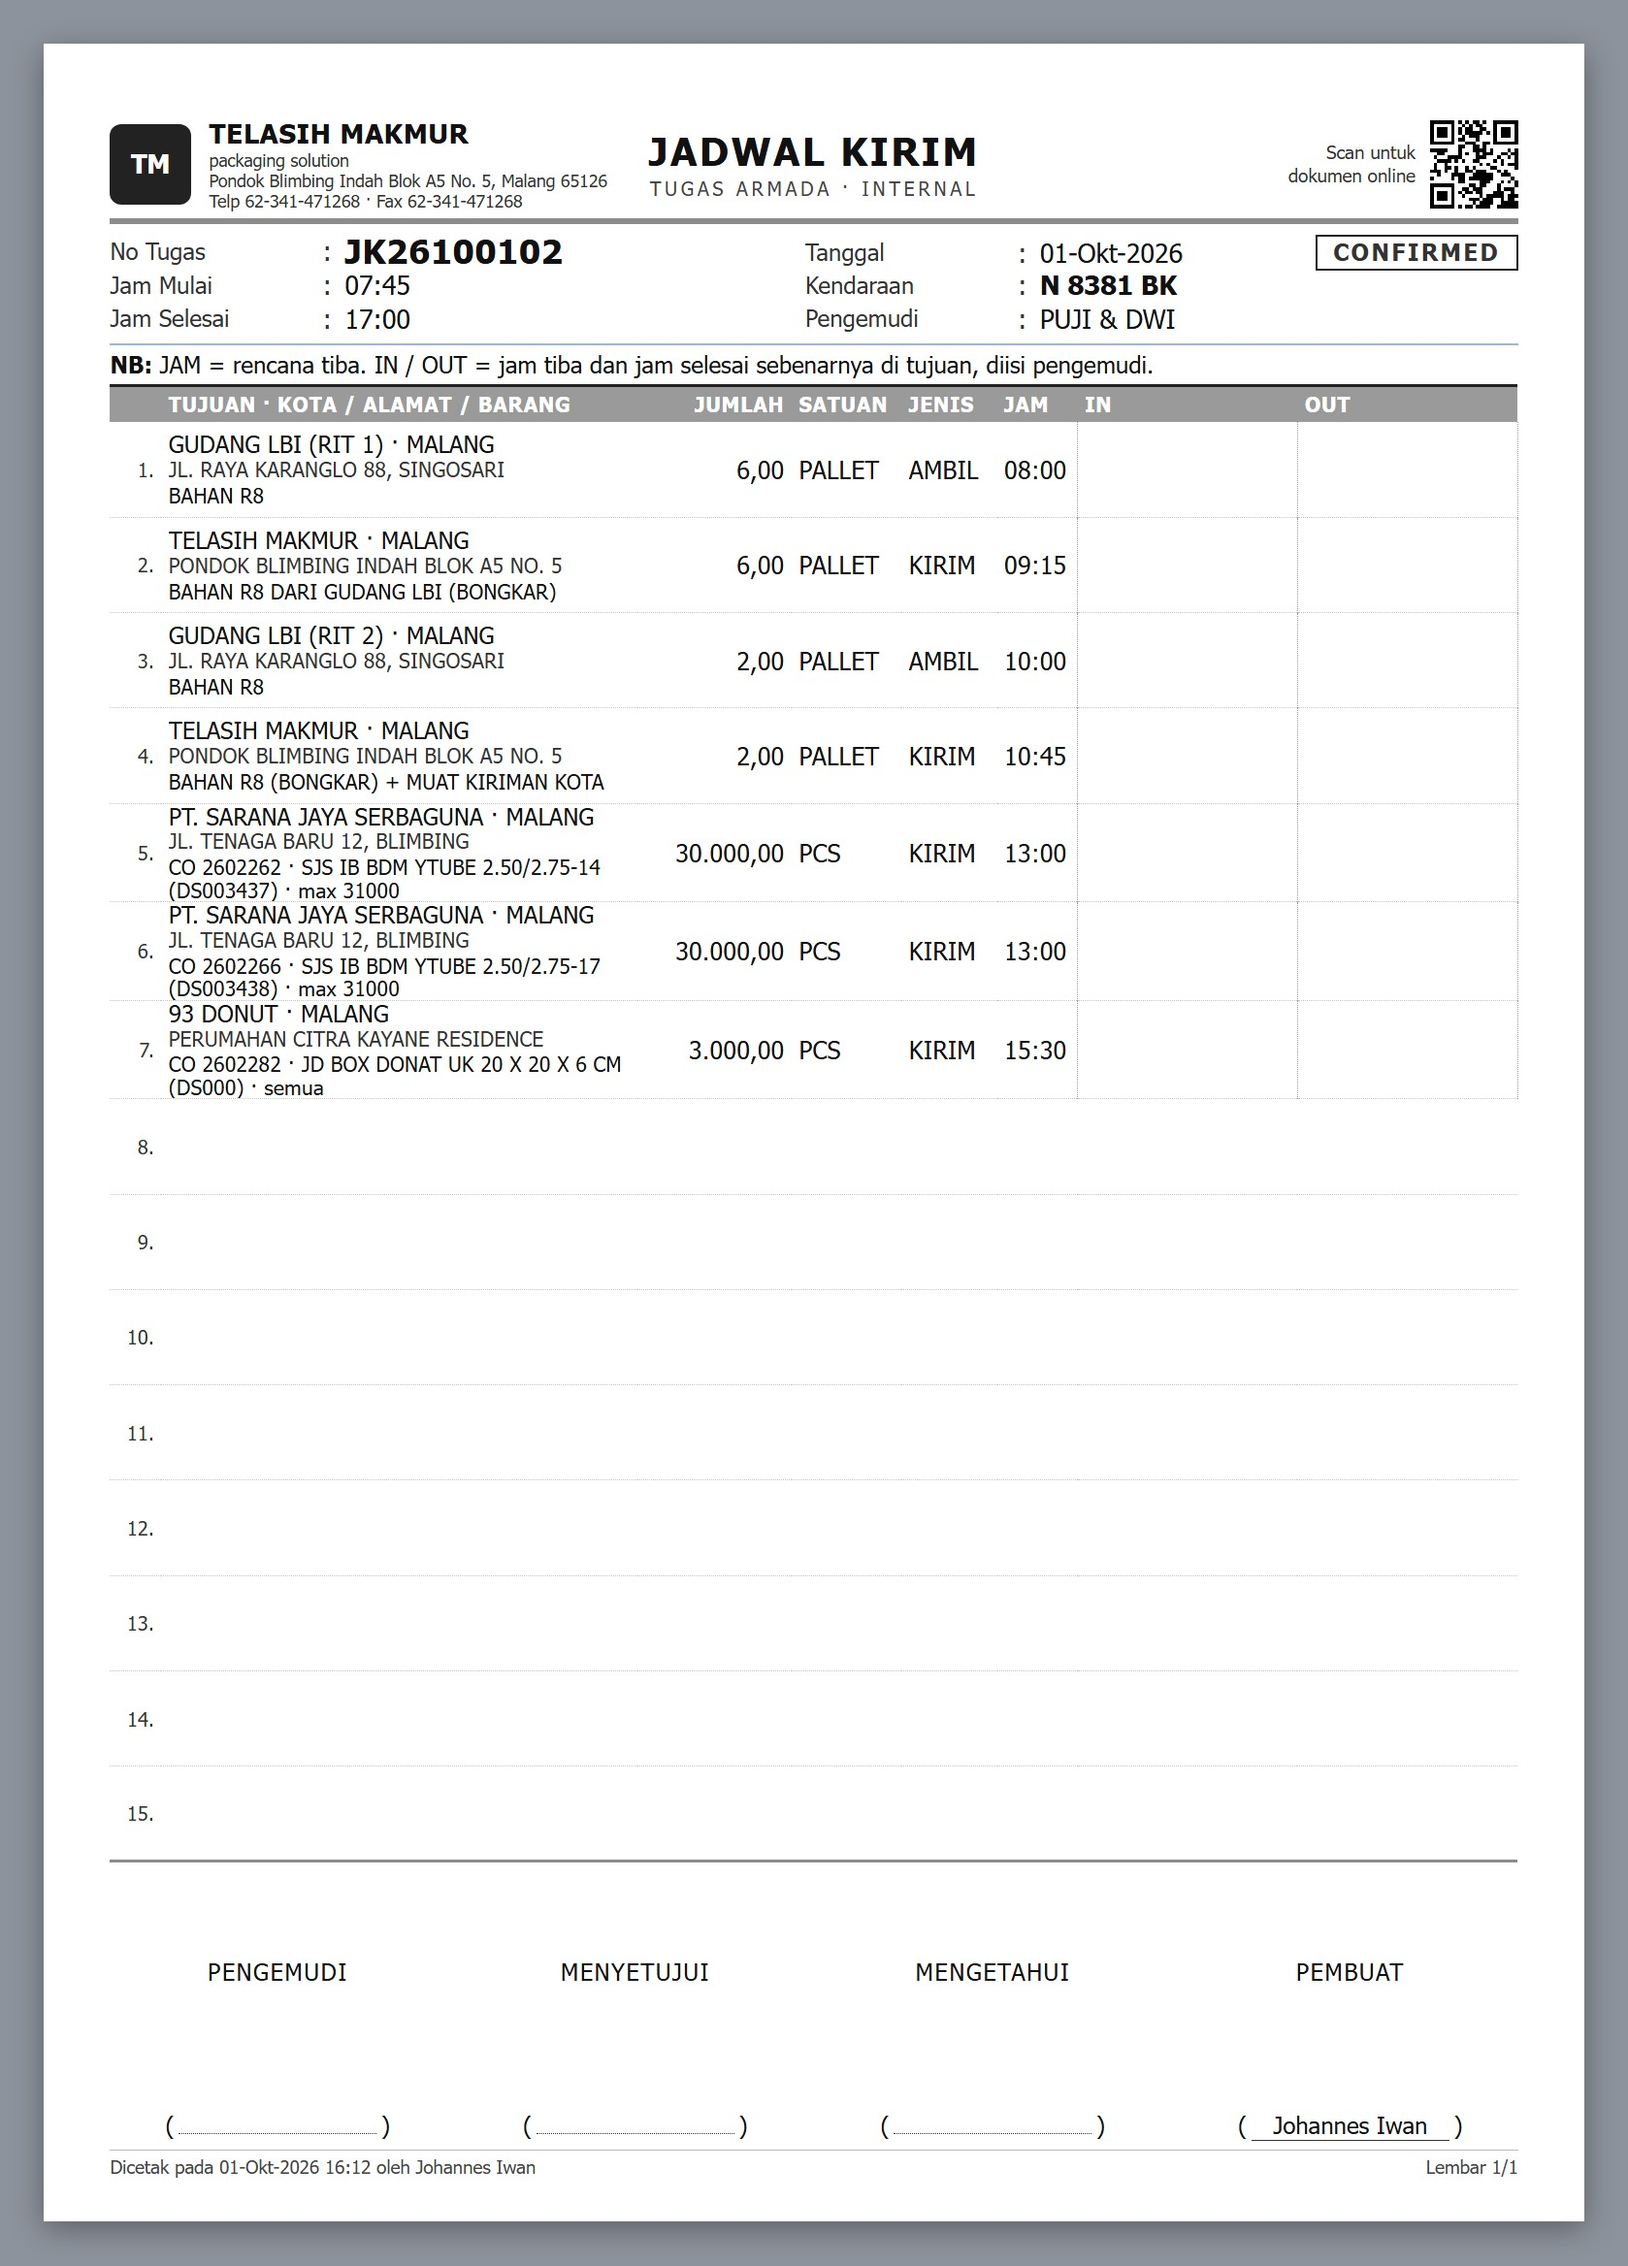
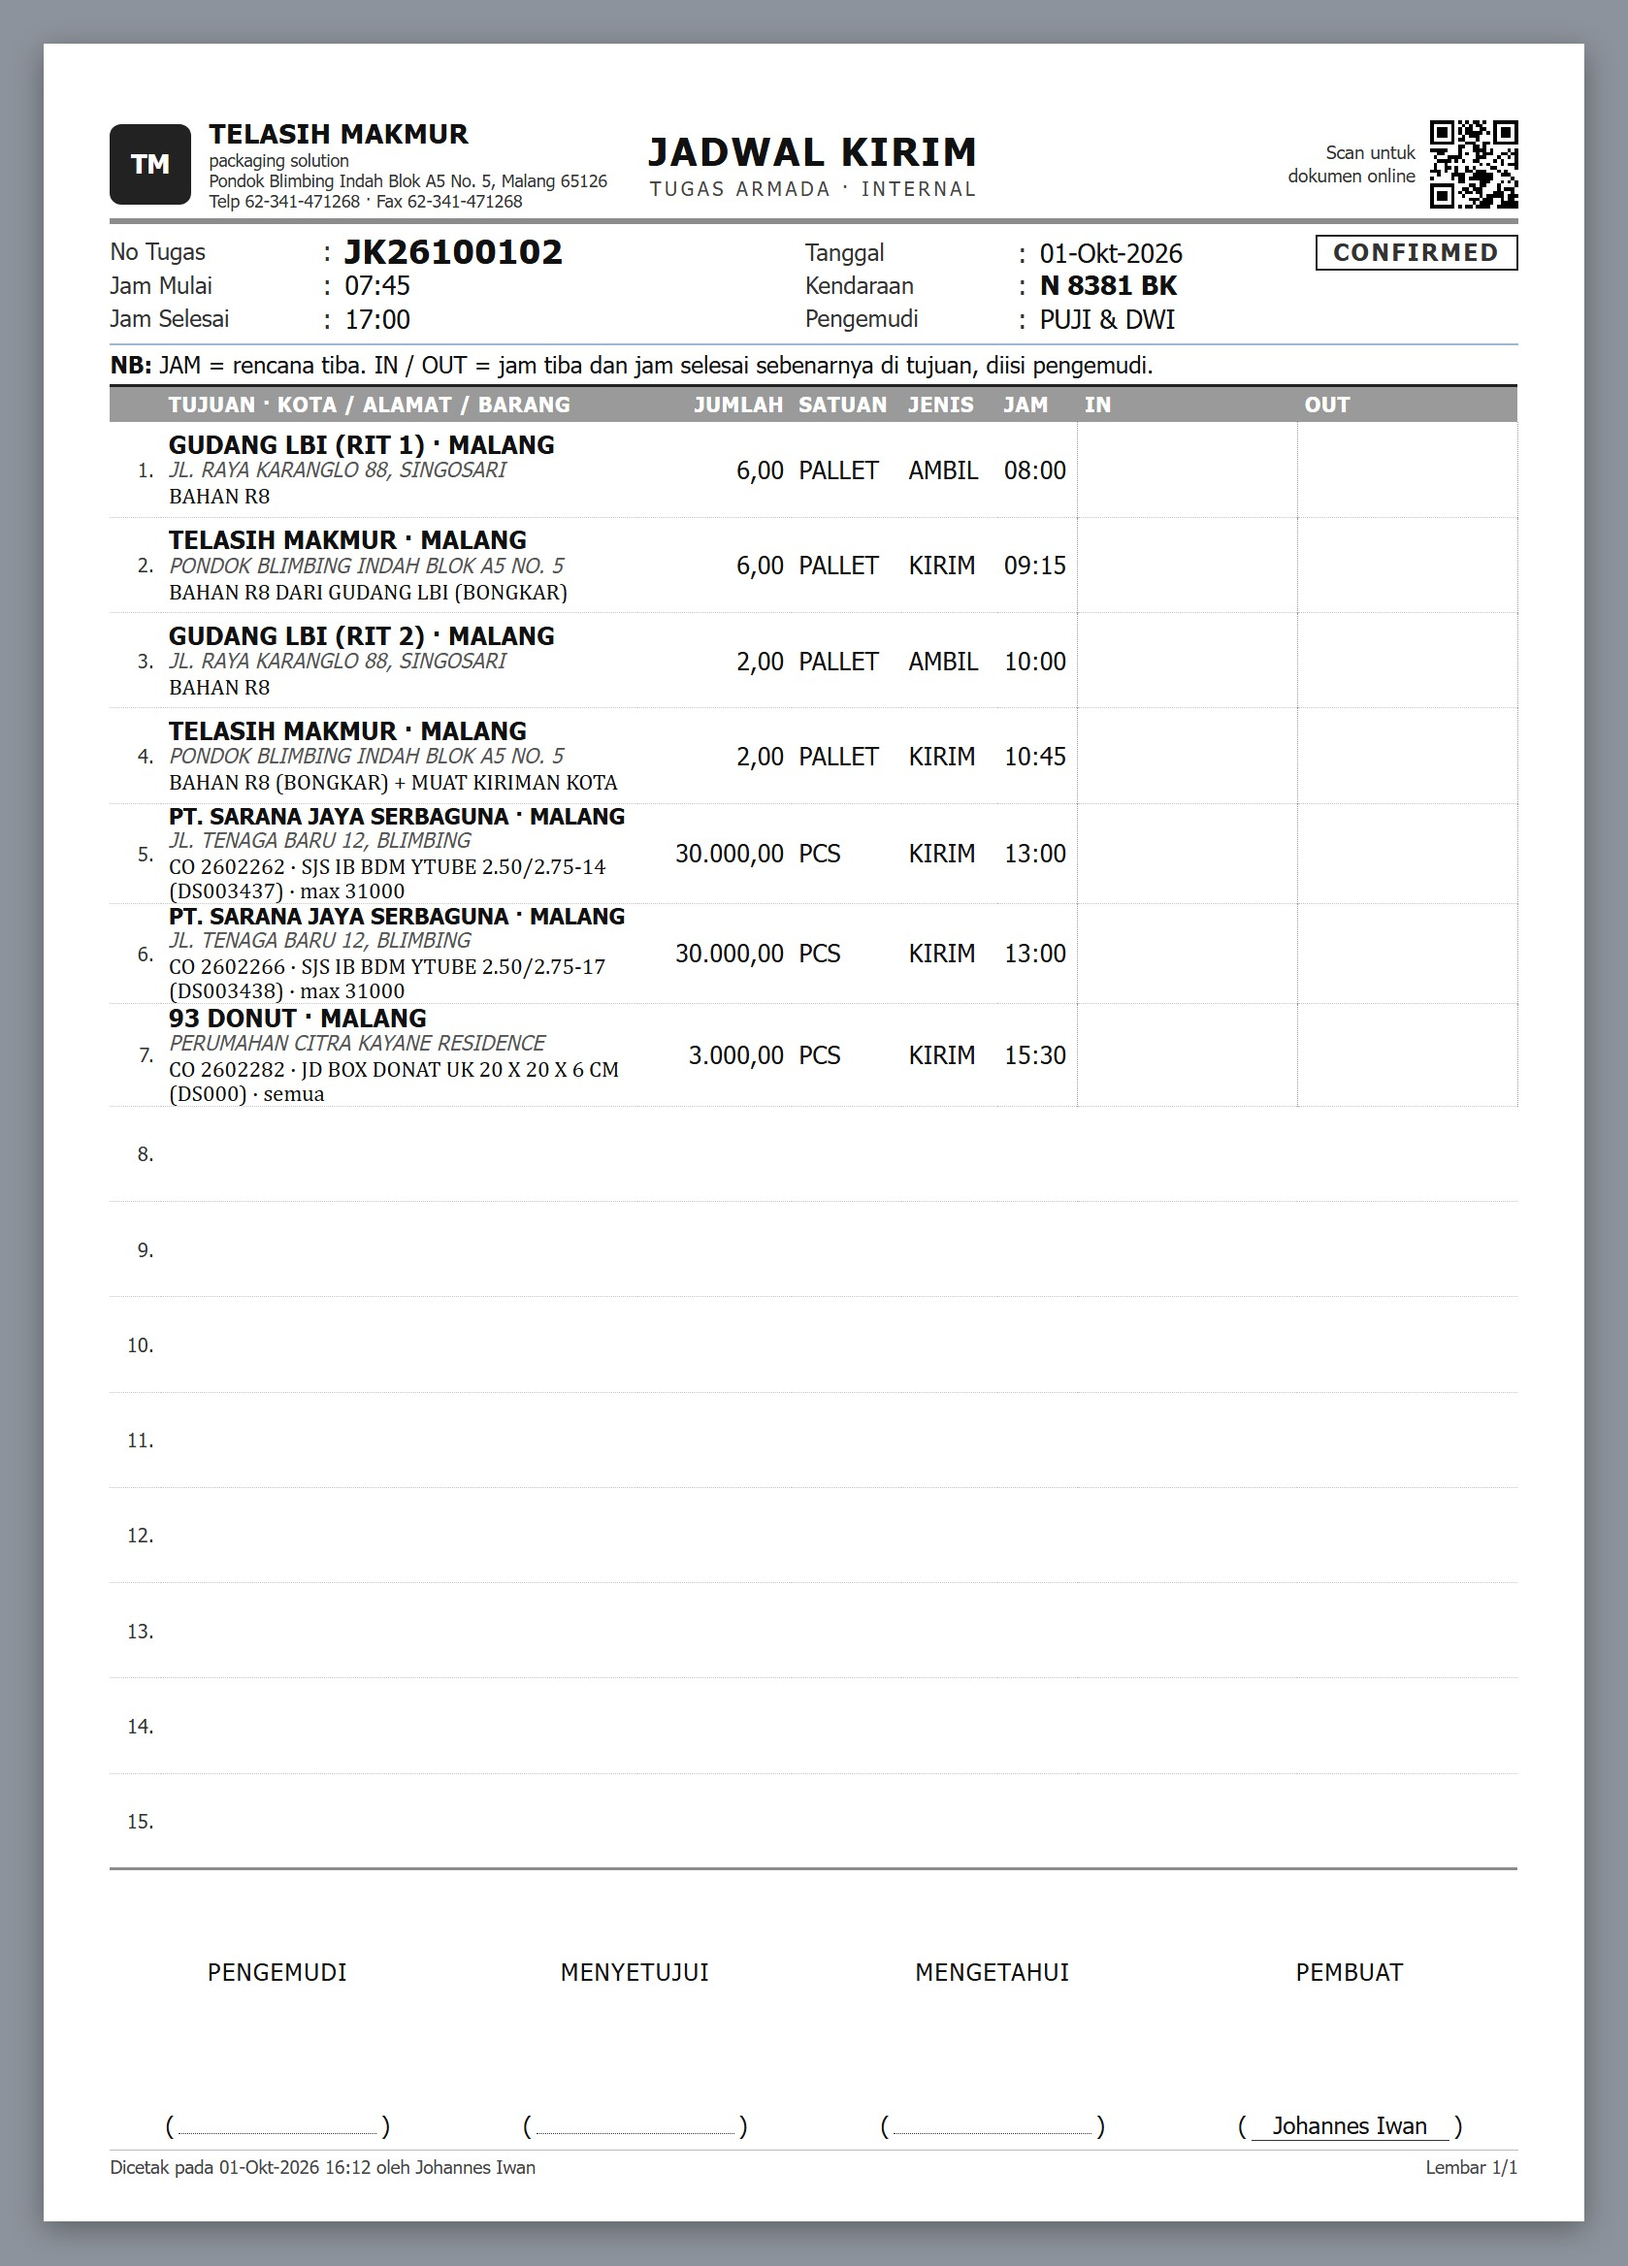
Print mockups: CPDEL marked A; Jadwal Kirim three lines in distinct type styles
User 2026-10-01 (rulebook C.24): CPDEL print approved. Jadwal Kirim lines: place + city bold, address italic grey,
goods in a serif face.

diff --git a/docs/mockups/print_doc/printdoc.css b/docs/mockups/print_doc/printdoc.css
@@ -61,6 +61,12 @@ table.items{width:100%;border-collapse:collapse;border-top:.5mm solid #222;borde
 /* Baris ketiga (barang), boleh 2 baris; huruf dikecilkan seperlunya oleh PrintDoc.fit() */
 .n3{font-size:8pt;line-height:1.1;max-height:2.25em;overflow:hidden;margin-top:.3mm}
 
+/* Jadwal Kirim: tiga baris per perhentian dibedakan gaya dan jenis hurufnya (permintaan user 2026-10-01):
+   1 tujuan + kota = Tahoma tebal; 2 alamat = Tahoma miring abu-abu; 3 barang = huruf berkait (Cambria) tegak hitam. */
+.doc-JadwalKirim .n1{font-weight:700;font-size:9.5pt}
+.doc-JadwalKirim .n2{font-style:italic;color:#555}
+.doc-JadwalKirim .n3{font-family:Cambria,Georgia,"Times New Roman",serif;font-size:8.5pt;color:#111}
+
 /* 5. Zona penutup: catatan kiri, kotak total kanan (tinggi tetap) */
 .tail{display:grid;grid-template-columns:1fr 62mm;gap:6mm;height:var(--tail,18.5mm);padding-top:1.2mm;overflow:hidden}
 .notes{font-size:8.5pt;line-height:1.3}

diff --git a/docs/mockups/print_doc/printdoc.js b/docs/mockups/print_doc/printdoc.js
@@ -169,7 +169,7 @@ class PrintDoc {
 
     render() {
         const f = this.f;
-        return `<div class="sheet ${this.paper}" style="--info-rows:${f.infoRows};--rh:${f.rowHeight}mm;--tail:${f.tailHeight}mm">${this.kop()}${this.info()}<p class="nb">${this.f.nb}</p>${this.table()}${this.tail()}${this.sign()}${this.foot()}</div>`;
+        return `<div class="sheet ${this.paper} doc-${f.name}" style="--info-rows:${f.infoRows};--rh:${f.rowHeight}mm;--tail:${f.tailHeight}mm">${this.kop()}${this.info()}<p class="nb">${this.f.nb}</p>${this.table()}${this.tail()}${this.sign()}${this.foot()}</div>`;
     }
 
     // Teks sel yang terlalu panjang dikecilkan bertahap sampai muat (batas 6,5 pt), bukan dipotong.

diff --git a/docs/mockups/print_doc/documents.js b/docs/mockups/print_doc/documents.js
@@ -56,6 +56,7 @@ PrintDoc.register(class CustomerOrderNoPrice extends PrintDoc.registry.CustomerO
 // (split) dicetak berurutan dan ditandai tiga kali: garis tebal di kiri baris, kolom KIRIMAN "SPLIT 1/3" tebal, dan
 // ringkasan "Split" di bawah tabel (keputusan user 2026-10-01: harus jelas jika terjadi split). `item` = id baris CO.
 PrintDoc.register(class CustomerPlanDelivery extends PrintDoc {
+    static approved = '2026-10-01';
     static title = 'CUSTOMER PLAN DELIVERY';
     static subtitle = 'Rencana Kirim &middot; Tanpa Harga';
     static numberLabel = 'No CO';

diff --git a/docs/globaluserrules.md b/docs/globaluserrules.md
@@ -200,14 +200,15 @@
     Constants; kosong = garis untuk tanda tangan tangan. Belum dibangun (dibangun saat cetakan dipasang ke aplikasi).
     **Format cetak Surat Jalan, Customer Order (dengan harga + tanpa harga), Purchase Requisition (Produksi + Non
     Produksi), Purchase Order, dan Inquiry = A (Approved) oleh user 2026-10-01** — tidak diubah lagi kecuali user sendiri
-    yang meminta. Belum A: Jadwal Kirim, CPDEL.
+    yang meminta. **CPDEL = A juga (user 2026-10-01).** Belum A: Jadwal Kirim.
     **Cetakan CPDEL (Customer Plan Delivery) wajib ada, tanpa harga, dan split harus jelas** (user 2026-10-01): satu
     baris per kiriman; baris hasil split diberi garis tebal di kiri, kolom Kiriman "SPLIT 1/3", dan ringkasan Split di
     bawah tabel. **Penanda tangan CPDEL: Operations Manager, PPIC, dan Sales (pembuat) saling setuju, terakhir
     Customer** — dicetak dari kiri: Customer, Operations Manager, PPIC, Sales.
     **Jadwal Kirim wajib memuat Ambil / Kirim, jam, kota, dan alamat** (user 2026-10-01): satu baris per
     perhentian, **tiga baris teks**: nama tujuan / tempat ambil + kota, alamat, lalu barang yang dikirim / diambil (+ No
-    CO). Ruang kosong blok atas dipakai untuk tinggi baris, dan **kolom tulis tangan IN / OUT dibuat besar**.
+    CO). Ruang kosong blok atas dipakai untuk tinggi baris, dan **kolom tulis tangan IN / OUT dibuat besar**. Tiga
+    baris itu **dibedakan gaya dan jenis hurufnya**: tujuan + kota tebal, alamat miring abu-abu, barang huruf berkait.
 25. **Form ProDev berlatar putih — user 2026-10-01:** workbench Imposition (dulu gelap/navy) memakai **latar putih** seperti
     layar lain, warnanya lewat token tema DevLib (bukan hex). Tata letak dan isi tidak berubah; area gambar berlatar abu muda
     supaya lembar cetak (putih) tetap terlihat. Pratinjau & cetak Master Card tidak berubah.
@@ -267,6 +268,7 @@
 | 2026-10-01 | C.24: cetakan tanpa "Jumlah baris"; kaki dokumen = "Dicetak pada tanggal jam oleh nama orang" saja (tanpa nama aplikasi, login, nomor dokumen, ukuran kertas). Surat Jalan dan dokumen lain tanpa nilai uang: tanpa total. Surat Jalan + kolom Berat (kg) dan Ikat. Customer Order 2 format cetak: dengan harga / tanpa harga. |
 | 2026-10-01 | C.24: urutan tanda tangan semua cetakan = pihak luar, Menyetujui, Mengetahui, Pembuat (kiri ke kanan, ketentuan tetap); Pembuat = user yang login; penanda tangan lain = konstanta per dokumen (skema menunggu OK). Kop Telasih Makmur = alamat Langgeng Jaya Makmur, tanpa NPWP. PR Produksi (No CO + nama product) / Non Produksi. |
 | 2026-10-01 | **C.24: format cetak Surat Jalan dan Customer Order (dengan harga + tanpa harga) = A (Approved) oleh user** — tidak diubah lagi kecuali user meminta. |
+| 2026-10-01 | **C.24: cetakan CPDEL (tanpa harga, split jelas, penanda tangan Customer / Operations Manager / PPIC / Sales) = A (Approved) oleh user.** Jadwal Kirim dirancang ulang (Ambil / Kirim, jam, kota, alamat, tiga baris berbeda huruf, IN / OUT besar), belum A. |
 | 2026-10-01 | **C.24: format cetak Purchase Order dan Inquiry = A (Approved) oleh user** — tidak diubah lagi kecuali user meminta. Belum A: Jadwal Kirim. |
 | 2026-10-01 | **C.24: format cetak Purchase Requisition (Produksi + Non Produksi) = A (Approved) oleh user** — tidak diubah lagi kecuali user meminta. |
 | 2026-10-01 | B.14: master hanya diubah user; sistem hanya mengubah transaksi; default boleh diperbarui analisa sistem dan tetap bisa di-override. |
